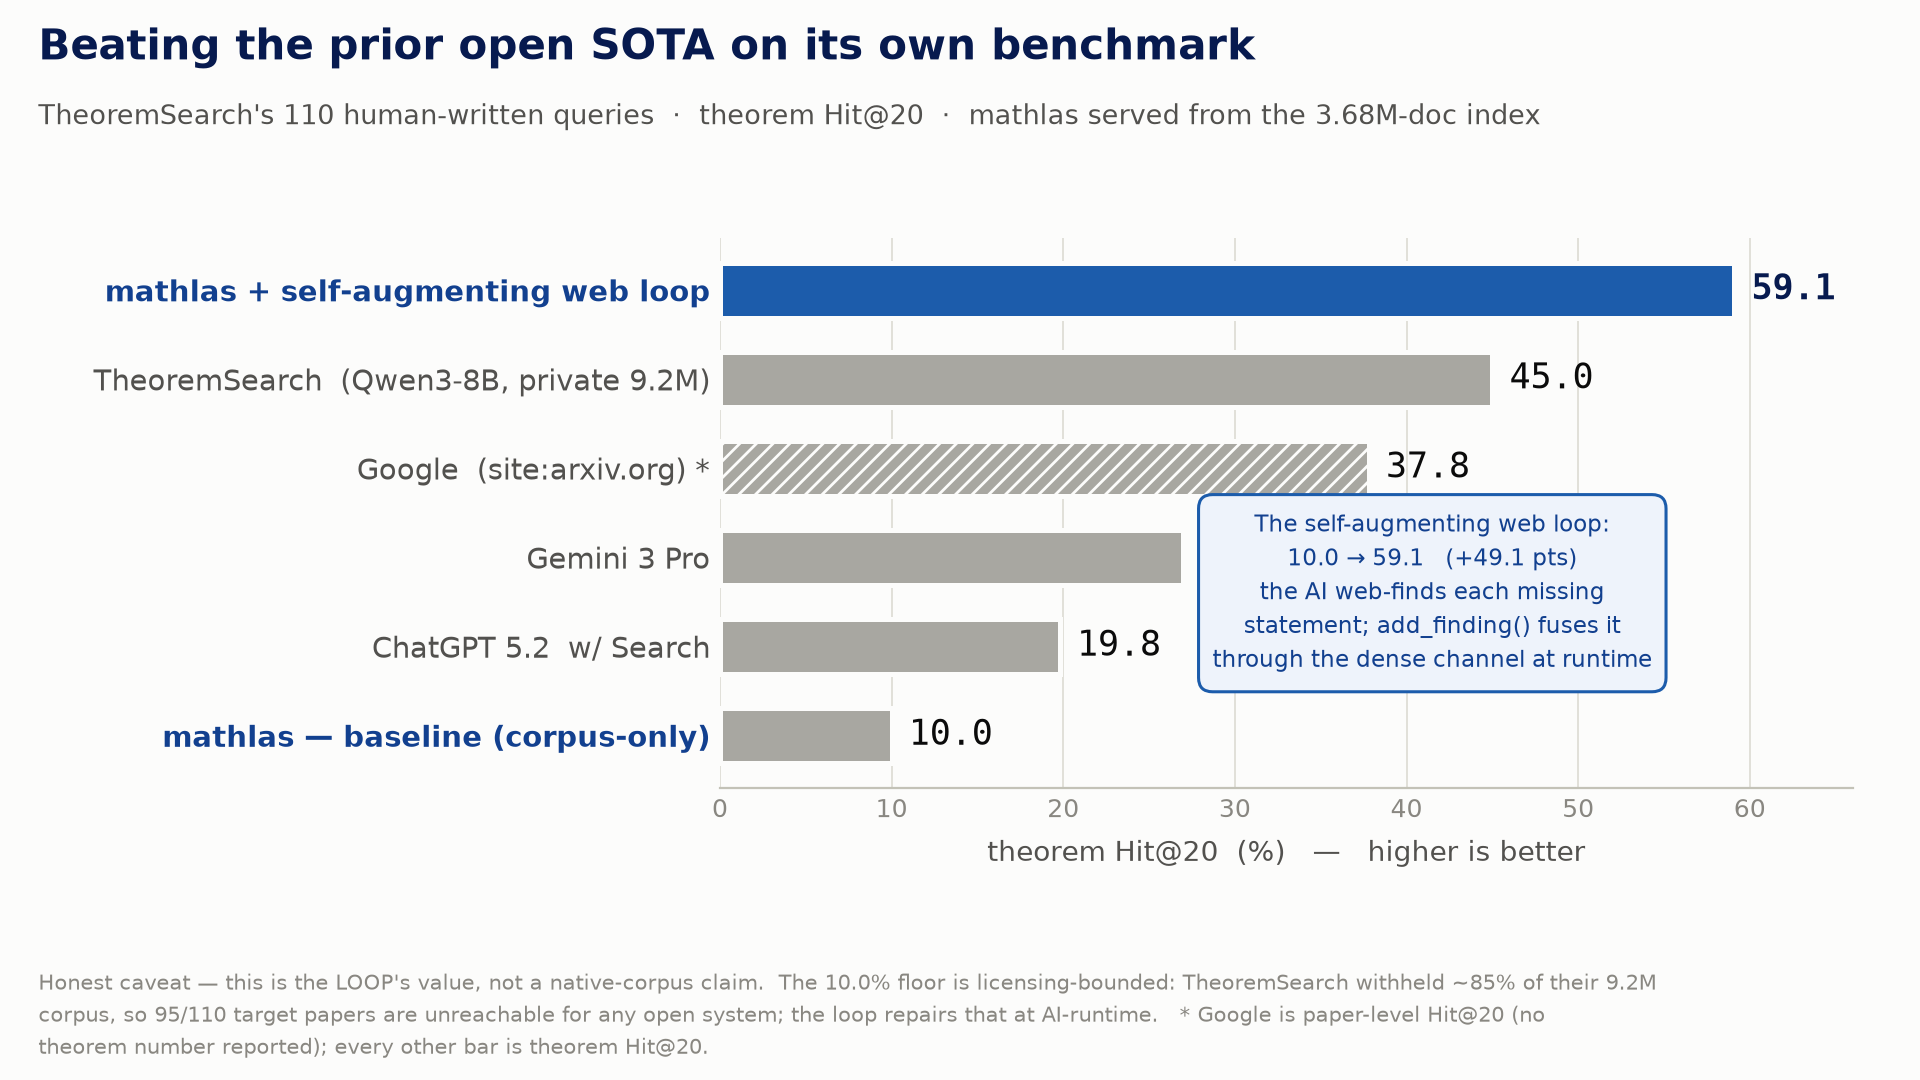
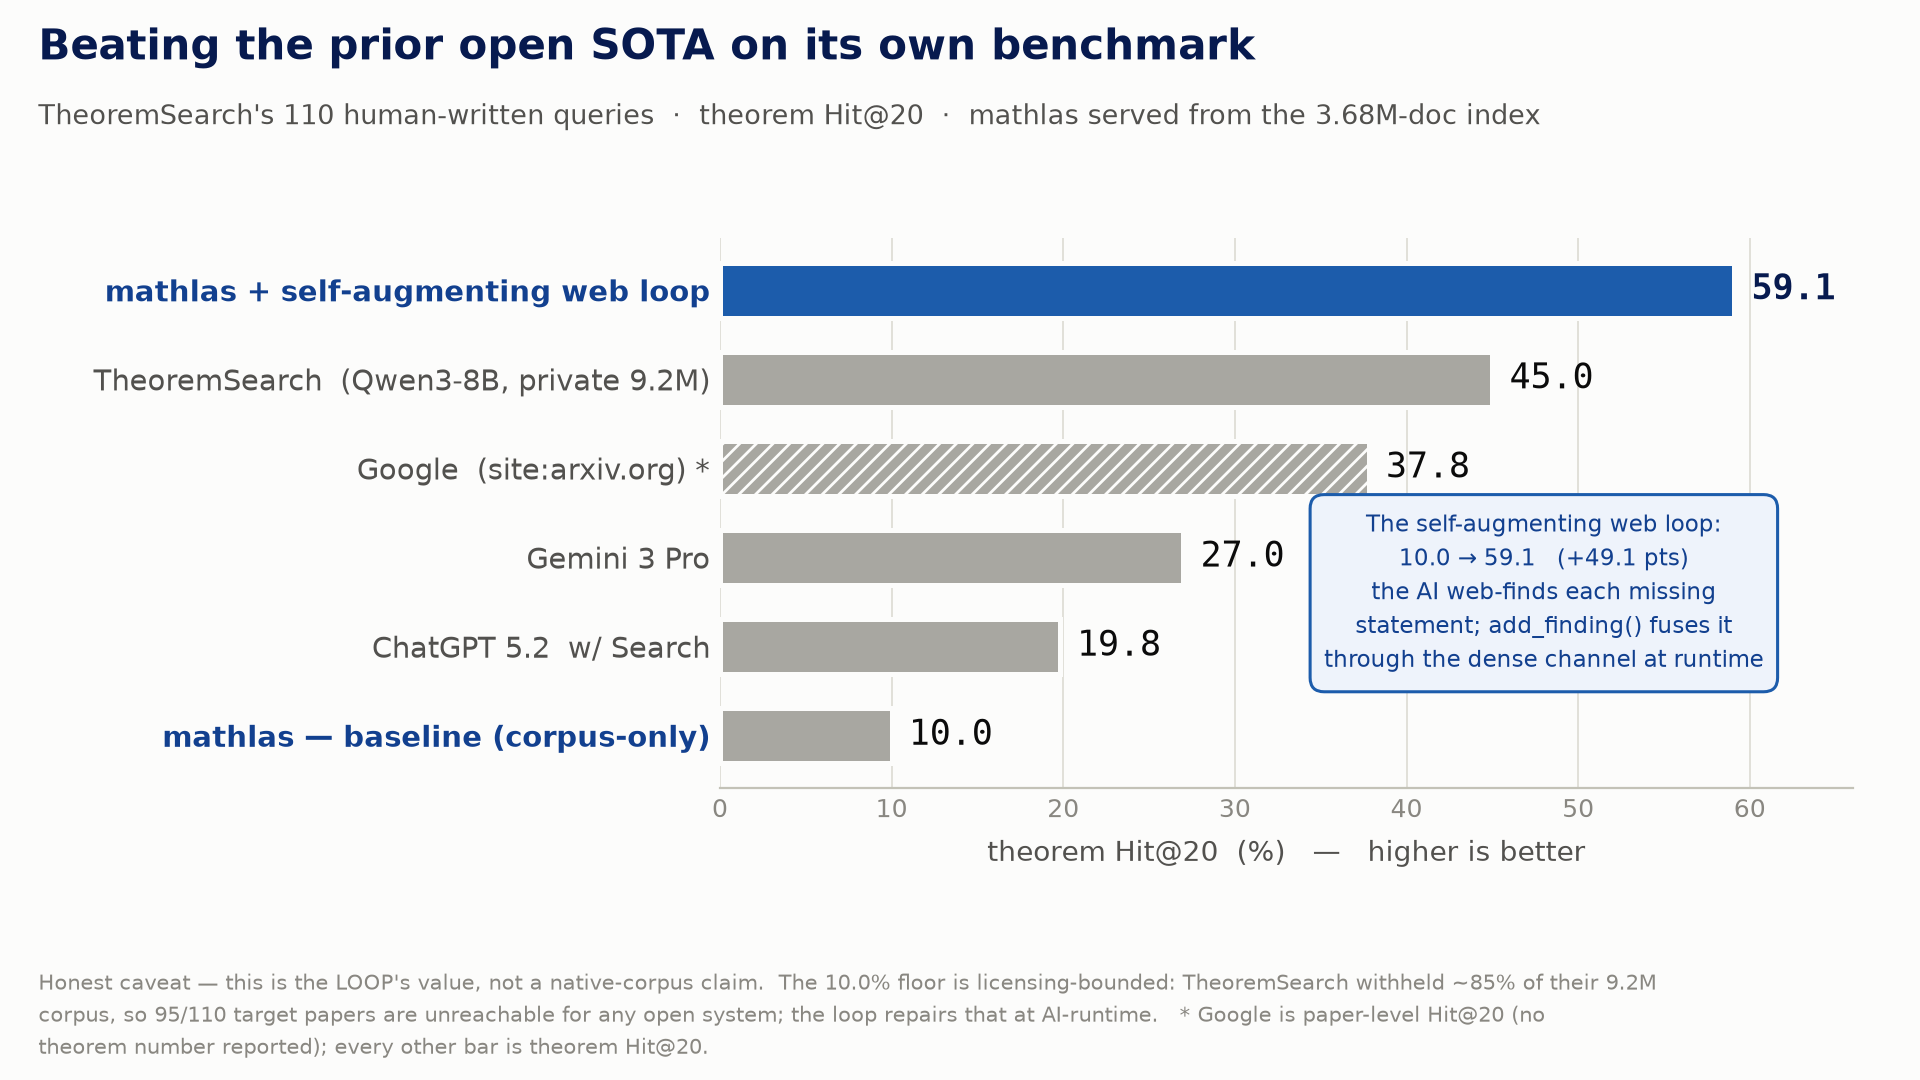
docs: move benchmark-figure callout clear of the Gemini bar label

Changed region(s): [[0.625, 0.4583, 0.9375, 0.6417]]

diff --git a/assets/gen/gen_benchmark.py b/assets/gen/gen_benchmark.py
@@ -62,7 +62,7 @@ ax.xaxis.grid(True, color=S.GRID, lw=0.7, zorder=0)
 ax.set_axisbelow(True)
 
 # clean callout in the empty lower-right space (auto-sized text bbox)
-ax.text(41.5, 1.6,
+ax.text(48.0, 1.6,
         "The self-augmenting web loop:\n"
         "10.0 → 59.1   (+49.1 pts)\n"
         "the AI web-finds each missing\n"
